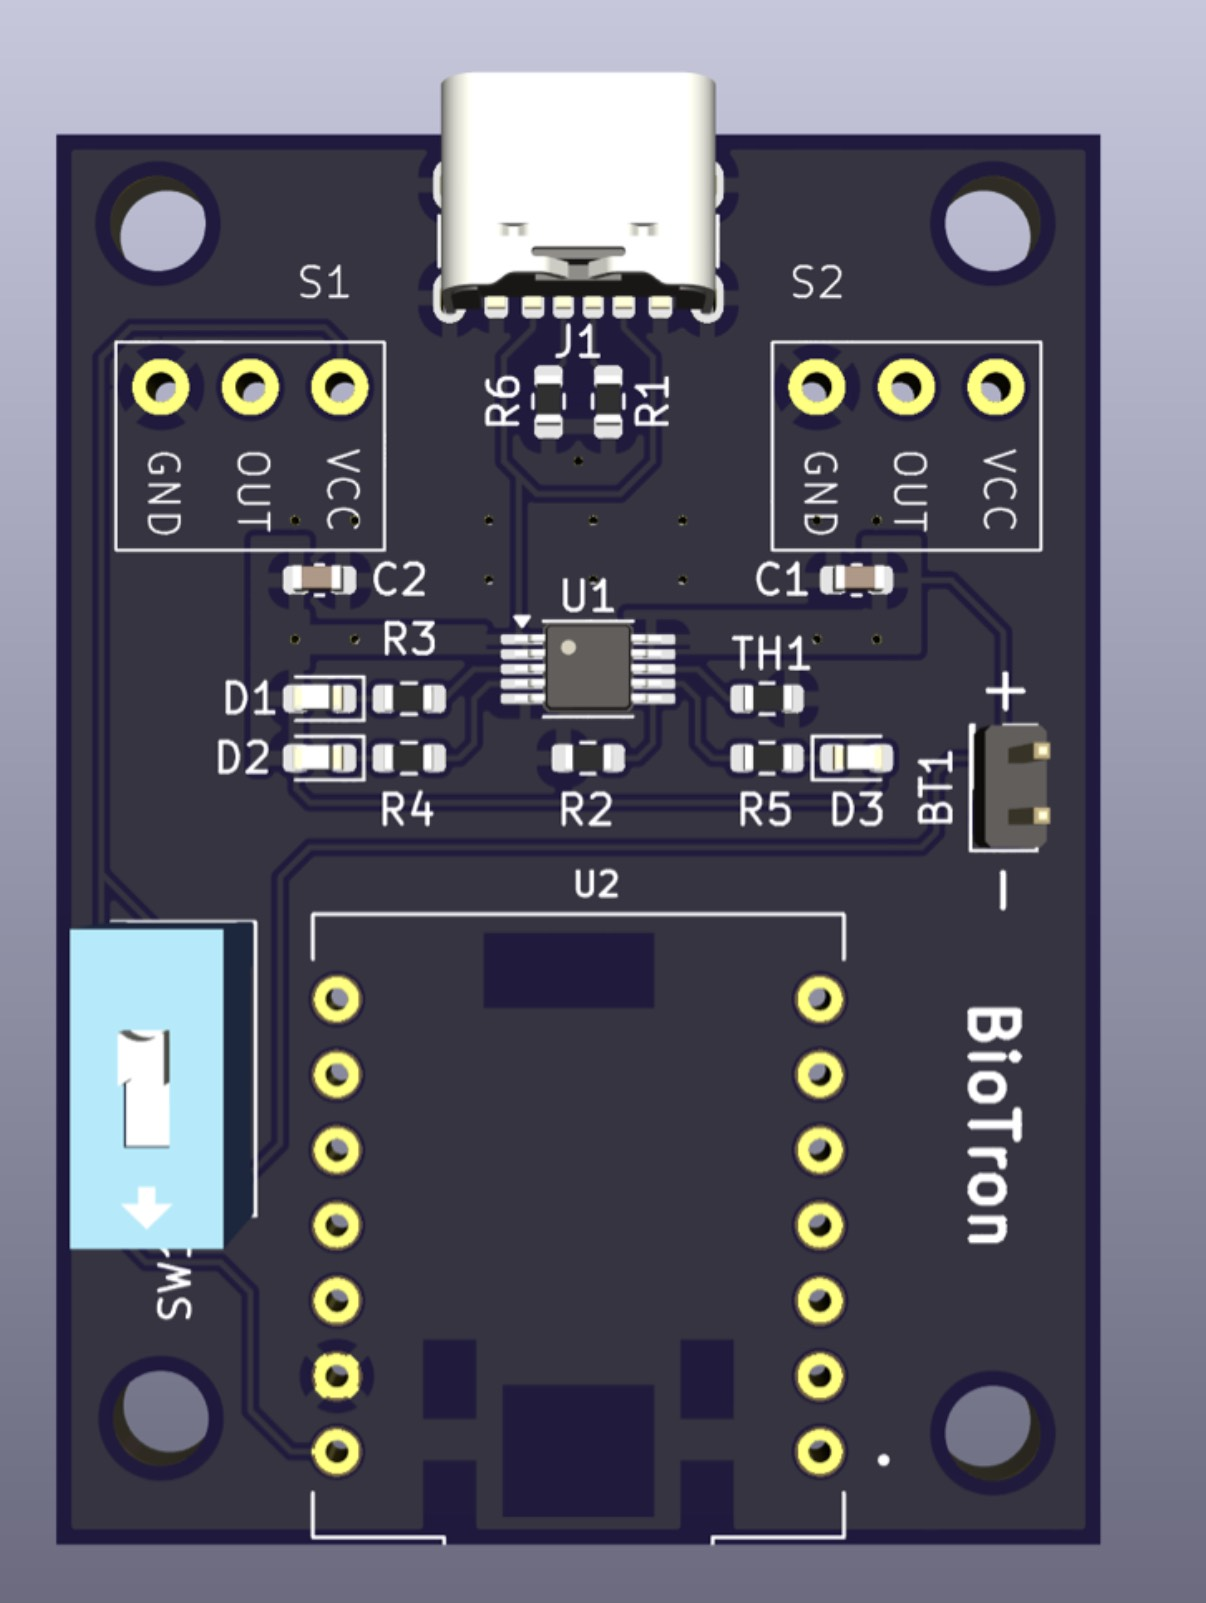
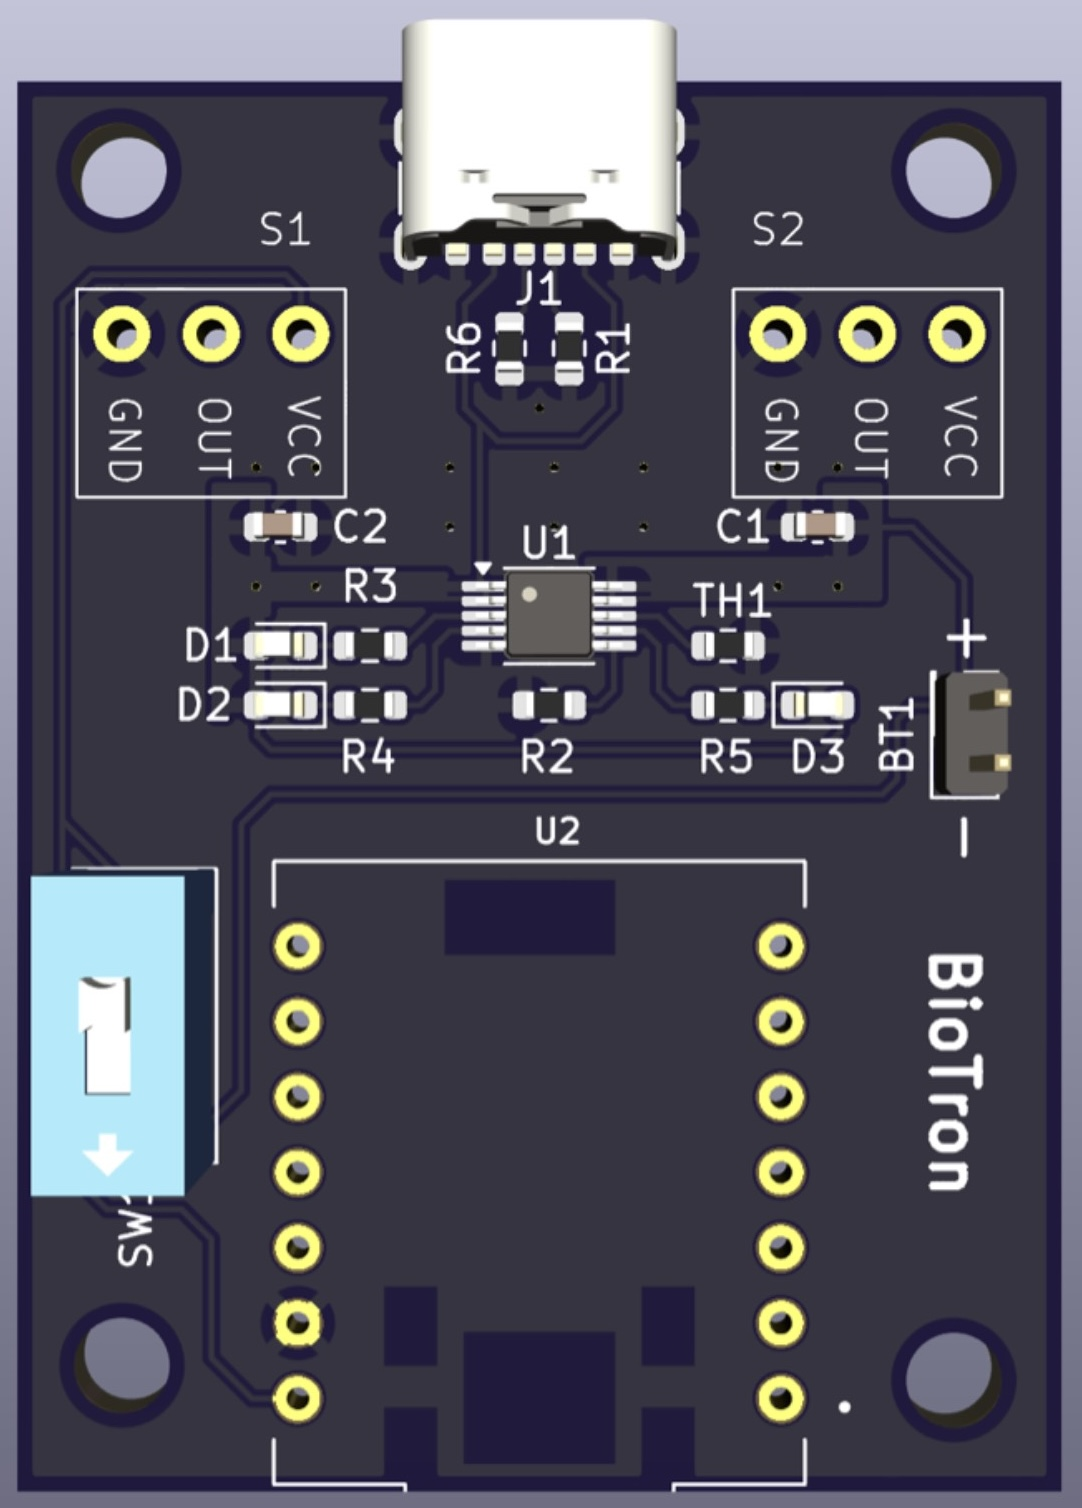
fix img and typo

diff --git a/app/page.tsx b/app/page.tsx
@@ -71,7 +71,7 @@ export default function Home() {
               <AppIcon src="/images/icons/miovision.png" alt="Miovision" />
               <div className="sidebar-text">
                 <span className="sidebar-title">Miovision</span>
-                <span className="sidebar-subtitle">S26 Software Engineering Intern</span>
+                <span className="sidebar-subtitle">Software Engineering · Device Management</span>
               </div>
               <Chevron />
             </Link>
@@ -165,7 +165,7 @@ export default function Home() {
               {/* Allocate */}
               <div className="project-card">
                 <a
-                  href="https://github.com/awzheng/Allocate"
+                  href="https://allocate.awzheng.me/"
                   target="_blank"
                   rel="noopener noreferrer"
                   className="project-card-image-link"
@@ -180,7 +180,7 @@ export default function Home() {
                 <div className="project-card-text">
                   {/* <span className="project-card-category">Golang · MongoDB · Rest API</span> */}
                   <a
-                    href="https://github.com/awzheng/Allocate"
+                    href="https://allocate.awzheng.me/"
                     target="_blank"
                     rel="noopener noreferrer"
                     className="project-card-title"
